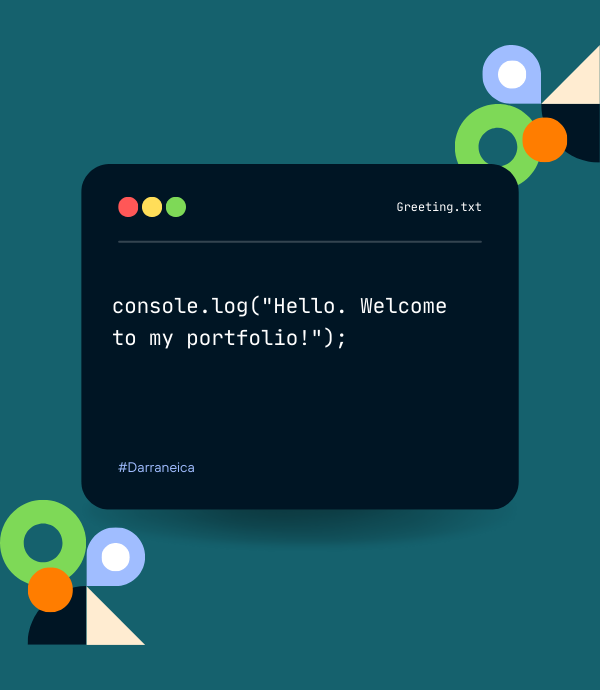
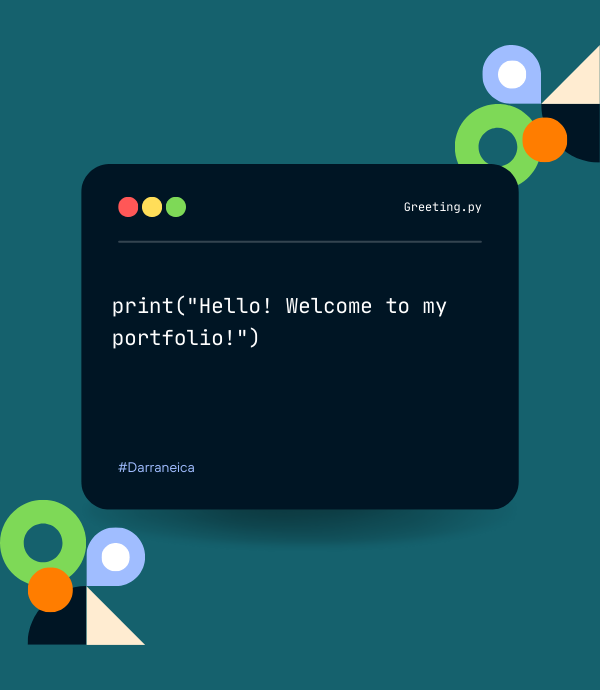
Updated portfolio with ne changes.

diff --git a/index.html b/index.html
@@ -145,21 +145,21 @@
                             </div>
 
                             <div class="skill-item mb-30">
-                                <h6>Web Design</h6>
+                                <h6>Full-Stack</h6>
                                 <div class="skill-progress">
-                                    <div class="progres" data-value="60%"></div>
+                                    <div class="progres" data-value="50%"></div>
                                 </div>
                             </div>
                             <div class="skill-item mb-30">
-                                <h6>Maintenance</h6>
+                                <h6>Frontend</h6>
                                 <div class="skill-progress">
-                                    <div class="progres" data-value="75%"></div>
+                                    <div class="progres" data-value="70%"></div>
                                 </div>
                             </div>
                             <div class="skill-item">
-                                <h6>Development</h6>
+                                <h6>Backend</h6>
                                 <div class="skill-progress">
-                                    <div class="progres" data-value="90%"></div>
+                                    <div class="progres" data-value="60%"></div>
                                 </div>
                             </div>
                         </div>
@@ -171,8 +171,8 @@
                         <div class="content">
                             <h6>Who am i</h6>
                             <h4>Darraneica.</h4>
-                            <h5>Professional Junior Web Developer</h5>
-                            <p class="mb-10">I am a junior web developer based in Louisiana with experience in creating websites and applications.</p>
+                            <h5>Professional Full-Stack Junior Software Developer</h5>
+                            <p class="mb-10">I am a full-stack junior software developer based in Louisiana with experience in creating websites and applications.</p>
                             <p>I am passionate about improving the fuction of applications and I am interested in learning new methods and techniques.</p>
 
                             <div class="social mt-40">
@@ -206,7 +206,7 @@
                     <div class="col-lg-3 col-md-6">
                         <div class="item mb-md50">
                             <i class="icon icofont icofont-paint"></i>
-                            <h6>Web Design</h6>
+                            <h6>Web Development</h6>
                             <p>Create clean and user-friendly interfaces that enhance user experience, 
                                 focusing on intuitive layouts and responsive design.</p>
                         </div>
@@ -215,16 +215,15 @@
                     <div class="col-lg-3 col-md-6">
                         <div class="item mb-md50">
                             <i class="icon icofont icofont-ui-fire-wall"></i>
-                            <h6>Development</h6>
-                            <p>Build dynamic and interactive web applications 
-                                 ensuring seamless performance across all devices.</p>
+                            <h6>API Development</h6>
+                            <p>Develop and integrate APIs to enable seamless communication between applications, ensuring efficient data exchange and enhanced functionality.</p>
                         </div>
                     </div>
 
                     <div class="col-lg-3 col-md-6">
                         <div class="item mb-sm50">
                             <i class="icon icofont icofont-instrument"></i>
-                            <h6>Maintenance</h6>
+                            <h6>Web Maintenance</h6>
                             <p>Provide ongoing support and updates for existing websites, 
                                 ensuring optimal performance, security, and bug fixes.</p>
                         </div>
@@ -233,9 +232,8 @@
                     <div class="col-lg-3 col-md-6">
                         <div class="item">
                             <i class="icon icofont icofont-chart-histogram-alt"></i>
-                            <h6>API Integration</h6>
-                            <p>Integrate third-party APIs to enhance functionality, 
-                                enabling seamless data exchange and improved user experiences.</p>
+                            <h6>Automation</h6>
+                            <p>Offer automation services to streamline repetitive tasks such as data processing, web scraping, file management, and task scheduling, improving efficiency and productivity.</p>
                         </div>
                     </div>
 
@@ -263,7 +261,7 @@
                     <div class="filtering text-center col-sm-12">
                         <span data-filter='*' class="active">All</span>
                         <span data-filter='.javascript'>JavaScript</span>
-                        <!--<span data-filter='.python'>Python</span>-->
+                        <span data-filter='.python'>Python</span>
                     </div>
 
                     <div class="clearfix"></div>
@@ -338,37 +336,37 @@
                             </div>
                         </div>
 
-                        <!-- gallery item 
-                        <div class="items javascript">
-                            <div class="item-img">
-                                <img src="img/portfolio/5.jpg" alt="image">
-                                <div class="item-img-overlay valign">
-                                    <div class="overlay-info full-width vertical-center">
-                                        <h6>Crearive Design</h6>
-                                        <p>Work description here</p>
-                                    </div>
-                                    <a href="img/portfolio/5.jpg" class="popimg">
-                                        <i class="icofont icofont-image"></i>
-                                    </a>
-                                </div>
-                            </div>
-                        </div>-->
-
-                        <!-- gallery item 
+                        <!-- gallery item -->
                         <div class="items python">
                             <div class="item-img">
-                                <img src="img/portfolio/6.jpg" alt="image">
+                                <img src="img/healthcare_data_analysis.jpg" alt="image">
                                 <div class="item-img-overlay valign">
                                     <div class="overlay-info full-width vertical-center">
-                                        <h6>Crearive Design</h6>
-                                        <p>Work description here</p>
+                                        <h6>Interactive Healthcare Billing Analysis</h6>
+                                        <p>Developed a Flask-based web application to streamline the analysis of healthcare billing data.</p>
                                     </div>
-                                    <a href="img/portfolio/6.jpg" class="popimg">
+                                    <a href="https://data-dashboard-zo86.onrender.com" target="_blank">
                                         <i class="icofont icofont-image"></i>
                                     </a>
                                 </div>
                             </div>
-                        </div>-->
+                        </div>
+
+                        <!-- gallery item -->
+                        <div class="items python">
+                            <div class="item-img">
+                                <img src="img/healthcare_database.jpg" alt="image">
+                                <div class="item-img-overlay valign">
+                                    <div class="overlay-info full-width vertical-center">
+                                        <h6>Healthcare Management System</h6>
+                                        <p>A web-based application developed for managing patient data and utilizing CSV files.</p>
+                                    </div>
+                                    <a href="https://healthcare-mock.onrender.com" target="_blank">
+                                        <i class="icofont icofont-image"></i>
+                                    </a>
+                                </div>
+                            </div>
+                        </div>
 
                         <!-- gallery item 
                         <div class="items javascript">
